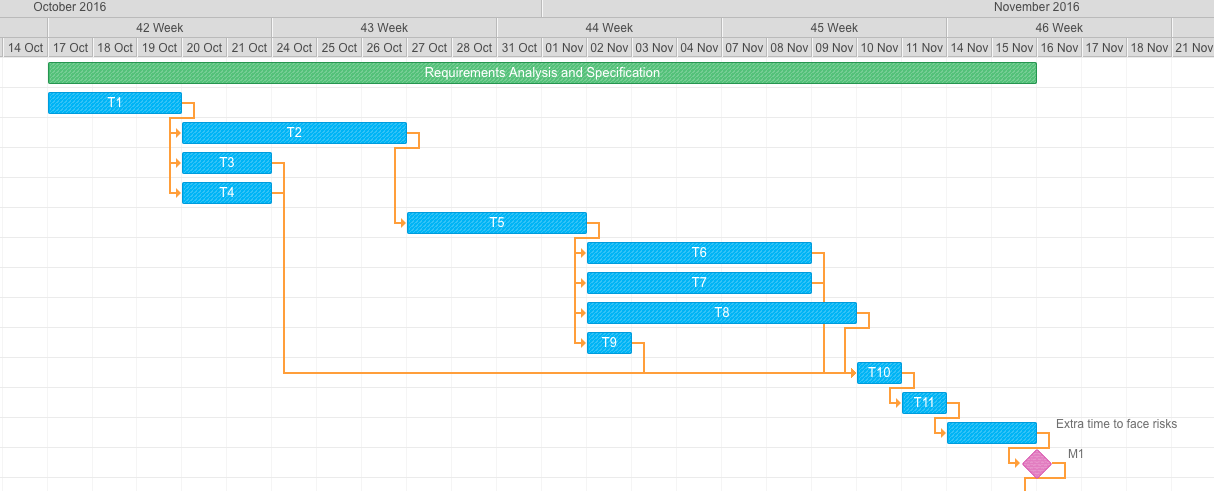
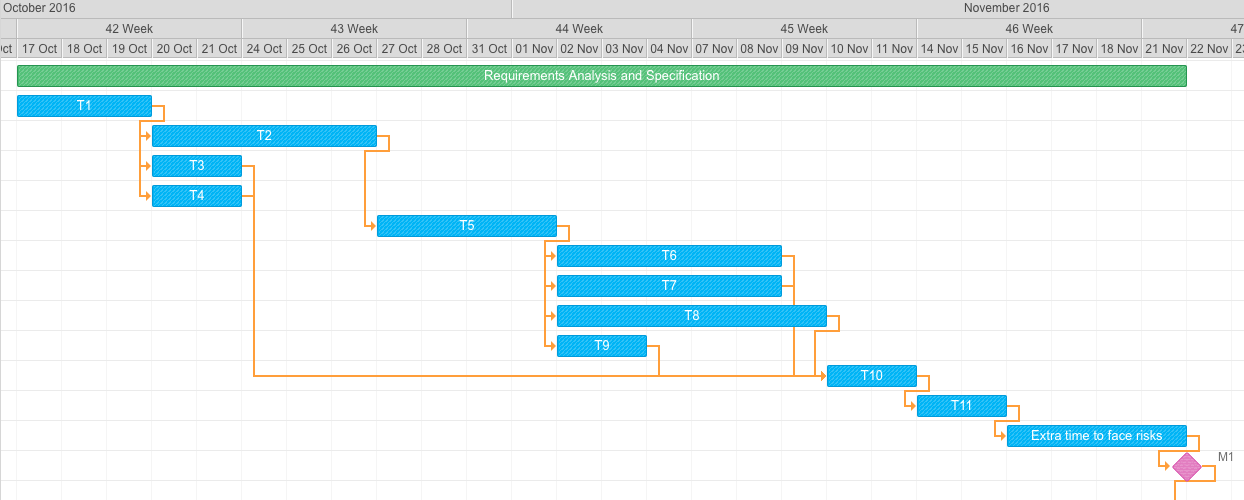
Final commit for PP deadline

diff --git a/PP/3TasksAndSchedule.tex b/PP/3TasksAndSchedule.tex
@@ -24,11 +24,11 @@ T7 & Use cases & 5 & T5\\
 \hline
 T8 & Alloy modeling & 6 & T5\\
 \hline
-T9 & Class diagram & 1 & T5\\
+T9 & Class diagram & 2 & T5\\
 \hline
-T10 & Document introduction & 1 & T3, T4, T6-9\\
+T10 & Document introduction & 2 & T3, T4, T6-9\\
 \hline
-T11 & Final document review & 1 & T10\\
+T11 & Final document review & 2 & T10\\
 \hline
 \textbf{M1} & \textbf{Milestone: Requirements Analysis and Specification Document} &  & \\
 \hline
@@ -39,23 +39,23 @@ T11 & Final document review & 1 & T10\\
 \hline
 \textbf{Task} & \textbf{Task Description} & \textbf{Duration (days)} & \textbf{Dependencies}\\
 \hline
-T12 & High level components and architectural styles & 4 & M1\\
+T12 & High level components and architectural styles & 10 & M1\\
 \hline
-T13 & Component view and component interfaces & 6 & T12\\
+T13 & Component view and component interfaces & 12 & T12\\
 \hline
-T14 & Deployment view & 3 & T12\\
+T14 & Deployment view & 6 & T12\\
 \hline
-T15 & Runtime view & 4 & T13\\
+T15 & Runtime view & 8 & T13\\
 \hline
-T16 & Algorithmic design & 3 & T15\\
+T16 & Algorithmic design & 6 & T15\\
 \hline
-T17 & User interface design & 4 & T15\\
+T17 & User interface design & 6 & T15\\
 \hline
-T18 & Requirements Traceability & 2 & T14, T16, T17\\
+T18 & Requirements Traceability & 4 & T14, T16, T17\\
 \hline
-T19 & Document introduction & 1 & T18\\
+T19 & Document introduction & 2 & T18\\
 \hline
-T20 & Final document review & 1 & T19\\
+T20 & Final document review & 2 & T19\\
 \hline
 \textbf{M2} & \textbf{Milestone: Design Document} &  & \\
 \hline
@@ -66,17 +66,17 @@ T20 & Final document review & 1 & T19\\
 \hline
 \textbf{Task} & \textbf{Task Description} & \textbf{Duration (days)} & \textbf{Dependencies}\\
 \hline
-T21 & Integration strategy & 3 & M2\\
+T21 & Integration strategy & 6 & M2\\
 \hline
-T22 & Individual steps and test description & 5 & T21\\
+T22 & Individual steps and test description & 8 & T21\\
 \hline
-T23 & Tools and test equipment required & 1 & T22\\
+T23 & Tools and test equipment required & 3 & T22\\
 \hline
-T24 & Program stubs and test data required & 2 & T23\\
+T24 & Program stubs and test data required & 3 & T23\\
 \hline
-T25 & Document introduction & 1 & T24\\
+T25 & Document introduction & 2 & T24\\
 \hline
-T26 & Final document review & 1 & T25\\
+T26 & Final document review & 2 & T25\\
 \hline
 \textbf{M3} & \textbf{Milestone: Integration Test Plan Document} &  & \\
 \hline
@@ -87,13 +87,13 @@ T26 & Final document review & 1 & T25\\
 \hline
 \textbf{Task} & \textbf{Task Description} & \textbf{Duration (days)} & \textbf{Dependencies}\\
 \hline
-T27 & Components development & 60 & M3\\
+T27 & Components development & 90 & M3\\
 \hline
-T28 & Components testing & 20 & T27\\
+T28 & Components testing & 40 & T27\\
 \hline
-T29 & Components integration in subsystems and testing & 15 & T28\\
+T29 & Components integration in subsystems and testing & 30 & T28\\
 \hline
-T30 & Subsystems integration in system and testing & 20 & T29\\
+T30 & Subsystems integration in system and testing & 30 & T29\\
 \hline
 T31 & Full system on-field testing & 30 & T30\\
 \hline
@@ -101,38 +101,38 @@ T31 & Full system on-field testing & 30 & T30\\
 \hline
 \end{tabular}
 
-\newpage
 \subsection{Scheduling}
-This section contains Gantt chart of the entire project. Due to the large dimensions of the chart, it has been split to improve readability.
+This section contains Gantt charts of the entire project. Due to the large dimensions of the chart, it has been split to improve readability.
 
-
+\begin{landscape}
 \begin{figure}[h!]
     \centering
-    \includegraphics[scale=0.4]{{Figures/Gantt1.png}}
+    \includegraphics[scale=0.5]{{Figures/Gantt1.png}}
     \label{fig:1FirstScreen}
-    \caption{Gantt Diagram of Requirements Analysis and Specification}
+    \caption{Gantt chart of Requirements Analysis and Specification}
 \end{figure}
 
 \begin{figure}[h!]
     \centering
-    \includegraphics[scale=0.35]{{Figures/Gantt2.png}}
+    \includegraphics[scale=0.7]{{Figures/Gantt2.png}}
     \label{fig:1FirstScreen}
-    \caption{Gantt Diagram of Design and Architecture}
+    \caption{Gantt chart of Design and Architecture}
 \end{figure}
 
 \begin{figure}[p!]
     \centering
-    \includegraphics[scale=0.5]{{Figures/Gantt3.png}}
+    \includegraphics[scale=0.45]{{Figures/Gantt3.png}}
     \label{fig:1FirstScreen}
-    \caption{Gantt Diagram of Integration Test Plan}
+    \caption{Gantt chart of Integration Test Plan}
 \end{figure}
 
 \begin{figure}[p!]
     \centering
     \includegraphics[scale=0.6]{{Figures/Gantt4.png}}
     \label{fig:1FirstScreen}
-    \caption{Gantt Diagram of Implementation}
+    \caption{Gantt chart of Implementation}
 \end{figure}
+\end{landscape}
 
 \newpage
 \subsection{Resource Allocation}
@@ -143,11 +143,11 @@ This section contains a table for each phase of the project where each of the pr
 \hline
 \textbf{Member} & \textbf{T1} & \textbf{T2} & \textbf{T3} & \textbf{T4} & \textbf{T5} & \textbf{T6} & \textbf{T7} & \textbf{T8} & \textbf{T9} & \textbf{T10} & \textbf{T11}\\
 \hline
-Piccirillo Luca &  &  &  &  &  &  &  &  &  &  & \\
+Piccirillo Luca     &   & X & X & X & X &   & X &   & X & X & X\\
 \hline
-Zampogna Gian Luca &  &  &  &  &  &  &  &  &  &  & \\
+Zampogna Gian Luca  & X & X & X & X &   &   &   & X &   & X & X\\
 \hline
-Zini Edoardo &  &  &  &  &  &  &  &  &  &  & \\
+Zini Edoardo        & X & X & X & X &   & X & X &   &   & X & X\\
 \hline
 \end{tabular}
 
@@ -158,11 +158,11 @@ Zini Edoardo &  &  &  &  &  &  &  &  &  &  & \\
 \hline
 \textbf{Member} & \textbf{T12} & \textbf{T13} & \textbf{T14} & \textbf{T15} & \textbf{T16} & \textbf{T17} & \textbf{T18} & \textbf{T19} & \textbf{T20}\\
 \hline
-Piccirillo Luca &  &  &  &  &  &  &  &  & \\
+Piccirillo Luca    & X & X & X &   &   &   &   & X & X\\
 \hline
-Zampogna Gian Luca &  &  &  &  &  &  &  &  & \\
+Zampogna Gian Luca & X & X &   & X &   &   & X & X & X\\
 \hline
-Zini Edoardo &  &  &  &  &  &  &  &  & \\
+Zini Edoardo       & X & X &   &   & X & X &   & X & X\\
 \hline
 \end{tabular}
 
@@ -173,11 +173,11 @@ Zini Edoardo &  &  &  &  &  &  &  &  & \\
 \hline
 \textbf{Member} & \textbf{T21} & \textbf{T22} & \textbf{T23} & \textbf{T24} & \textbf{T25} & \textbf{T26}\\
 \hline
-Piccirillo Luca &  &  &  &  &  & \\
+Piccirillo Luca    & X & X & X & X & X & X\\
 \hline
-Zampogna Gian Luca &  &  &  &  &  & \\
+Zampogna Gian Luca & X & X & X &   & X & X\\
 \hline
-Zini Edoardo &  &  &  &  &  & \\
+Zini Edoardo       & X & X &   &   & X & X\\
 \hline
 \end{tabular}
 
@@ -186,12 +186,12 @@ Zini Edoardo &  &  &  &  &  & \\
 \noindent
 \begin{tabular}{| l | c | c | c | c | c |}
 \hline
-\textbf{Person} & \textbf{T27} & \textbf{T28} & \textbf{T29} & \textbf{T30} & \textbf{T31}\\
+\textbf{Member} & \textbf{T27} & \textbf{T28} & \textbf{T29} & \textbf{T30} & \textbf{T31}\\
 \hline
-Piccirillo Luca &  &  &  &  &  \\
+Piccirillo Luca     & X & X & X & X & X\\
 \hline
-Zampogna Gian Luca &  &  &  &  &  \\
+Zampogna Gian Luca  & X & X & X & X & X\\
 \hline
-Zini Edoardo &  &  &  &  &  \\
+Zini Edoardo        & X & X & X & X & X\\
 \hline
 \end{tabular}

diff --git a/PP/1Introduction.tex b/PP/1Introduction.tex
@@ -1,17 +1,22 @@
 \section{Introduction}
 
 \subsection{Purpose and Scope}
+This document analyze the size, cost and effort of realizing the PowerEnJoy project. It is done relying on Function Points and COCOMO II methodologies. Following the result of these operations, tasks needed to complete the project are identified and grouped in order to obtain a schedule for the project that can be visualized using Gantt chart. At the end of the document, a risks list including appropriate mitigation strategies can be found.
+
 
 \subsection{Acronyms}
 \begin{itemize}
-    \item EIF = External Interface File
-    %\item GPS = Global Positioning System
-    \item ILF = Internal Logical File
+    %\item EIF = External Interface File
+    \item FP = Function Points
+    \item GLONASS = GLObal NAvigation Satellite System
+    \item GPS = Global Positioning System
+    %\item ILF = Internal Logical File
     %\item ORAA = Onboard Ride Assistant App
     %\item PEJ = PowerEnJoy
     %\item PPP = Payment Processor Provider
     %\item SBL = Service Business Logic
-    %\item SPA = Special Parking Area
+    \item SPA = Special Parking Area
+    \item RASD = Requirements Analysis and Specification Document
     %\item UDMA = User Device Mobile App
     \item UFP = Unadjusted Function Points
 \end{itemize}
@@ -19,13 +24,14 @@
 \subsection{Definitions}
 \begin{itemize}
     \item \textbf{Car:} every vehicle, which respects the requirements, that the system allows the users to use.
+    \item \textbf{Galileo:} GPS-like system managed by Europe.
     %\item \textbf{Onboard Ride Assistant App:} software logic that manage what is shown on the Car screen.
     %\item\textbf{PowerUser:} user who is already registered to the service and is currently logged in.
-    %\item \textbf{Safe Parking Area:} pre-defined areas (i.e. streets) where a user is allowed to park.
+    \item \textbf{Safe (Parking) Area:} pre-defined areas (i.e. streets) where a user is allowed to park.
     %\item \textbf{Service Business Logic:} software logic of the service the user do not directly interact with.
-    %\item \textbf{Special Parking Area:} pre-defined areas (i.e. streets) where a user is allowed to park and where the batteries of the Cars can be plugged into the power grid.
-    %\item \textbf{Total Base Fare:} amount of money that the user pays for the ride duration only. It does not include any discount or penalty for any other specific condition.
-    %\item \textbf{Total Ride Fare:} amount of money that the user pays. It includes any discount or penalty for any other specific condition satisfied during the ride.
+    \item \textbf{Special Parking Area:} pre-defined areas (i.e. streets) where a user is allowed to park and where the batteries of the Cars can be plugged into the power grid.
+    \item \textbf{Base Fare:} amount of money that the user pays for the ride duration only. It does not include any discount or penalty for any other specific condition.
+    \item \textbf{Ride Fare:} amount of money that the user pays. It includes any discount or penalty for any other specific condition satisfied during the ride.
     %\item \textbf{User Device Mobile App:} mobile application the user will interact with on his mobile phone.
 \end{itemize}
 
@@ -33,4 +39,6 @@
 \begin{itemize}
     \item Project’s Assignment document: AA 2016-2017 Software Engineering 2 - Project goal, schedule, and rules.
     \item Software Engineering 2: "PowerEnJoy" Requirements Analysis and Specification Document.
+    \item Software Engineering: Principles and Practice, Hans van Vliet, 2007 \href{https://github.com/EdoardoZ/SoftEng2/raw/master/PP/References/Software\%20Engineering\%20-\%20Principles\%20and\%20Practice.pdf}{
+    (\underline{source})}
 \end{itemize}

diff --git a/PP/4RiskManagement.tex b/PP/4RiskManagement.tex
@@ -13,7 +13,9 @@ and effect coefficients:
     \item \textbf{Catastrophic Effect}: the entire project may be cancelled.
 \end{itemize}
 
+\bigskip
 
+\noindent
 \begin{tabular}{| l | p{7cm}  | l |  p{2.8cm} |}
 \hline
 \textbf{Risk} & \textbf{Risk Description} & \textbf{Probability} & \textbf{Effect}\\
@@ -40,7 +42,7 @@ R10 & New stakeholders are discovered during the development of the system. & Mo
 \hline
 R11 & Agreement issues with one of the possible Internet provider that need to provide data connectivity to Cars. & Moderate & Critical\\
 \hline
-R12 & Positioning system (GPS, GLONASS, Galileo,...) availability is restricted and can no longer be used for users and Cars localization. & Low & Critical\\
+R12 & Positioning system (GPS, GLONASS, Galileo, ...) availability is restricted and can no longer be used for users and Cars localization. & Low & Critical\\
 \hline
 \end{tabular}
 
@@ -72,10 +74,11 @@ R9 & Like \textit{R2} but with the impossibility of binding the customers. If th
 R10 & Depending on the influence and the impact of interest of the new stakeholders we may end up in situation described in \textit{R2} or \textit{R9}.\\
 \hline
 \end{tabular}
+\noindent
 \begin{tabular}{| l | p{13cm}  |}
 \hline
 R11 & Since the system relies on Internet data connectivity to send data back and forth from Cars to the central system, an issue with the Internet provider would restrain the system from being deployed. Due to number of Internet provider it is unlikely that an agreement cannot be reach with any of them; however exploring different solutions requires more time than just one solution. To ensure the lowest delay possible agreement with Internet provider should be done as soon as possible.\\
 \hline
-R12 & It is unlikely to happen due to the large impact that disabling the usage of a positioning system would have; however, especially after recent political events, it should be wise to rely on hardware that support at least a pair of different positioning systems.\\ 
+R12 & It is unlikely to happen due to the large impact that disabling the availability of a positioning system would have; however, especially after recent political events, it should be wise to rely on hardware that support at least a pair of different positioning systems.\\ 
 \hline
 \end{tabular}

diff --git a/PP/main.tex b/PP/main.tex
@@ -18,6 +18,20 @@
 \usepackage{algorithm}
 \usepackage[noend]{algpseudocode}
 \usepackage{pdflscape}
+\usepackage{tabularx}
+\usepackage{afterpage}
+\usepackage{titlesec}
+\setcounter{secnumdepth}{4}
+\titleformat{\paragraph}
+{\normalfont\normalsize\bfseries}{\theparagraph}{1em}{}
+\titlespacing*{\paragraph}
+{0pt}{3.25ex plus 1ex minus .2ex}{1.5ex plus .2ex}
+\usepackage{verbatim}
+\usepackage{comment}
+\usepackage{multirow}
+\usepackage{ragged2e}
+\usepackage{amsmath}
+\usepackage{lscape}
 
 \title{Software Engineering 2: "PowerEnJoy"\newline\newline
 Project Plan}

diff --git a/PP/5Appendix.tex b/PP/5Appendix.tex
@@ -4,13 +4,13 @@
 \subsection{Effort Spent}
 \begin{tabular}{| p{5cm} | p{5cm} |}
 \hline
-Teamwork & $\sim$?h\\
+Teamwork &  $\sim$7h\\
 \hline
-Piccirillo Luca & $\sim$?h\\
+Piccirillo Luca & $\sim$6h\\
 \hline
-Zampogna Gian Luca & $\sim$?h\\
+Zampogna Gian Luca & $\sim$6h\\
 \hline
-Zini Edoardo & $\sim$?h\\
+Zini Edoardo & $\sim$7h\\
 \hline
 \end{tabular}
 
